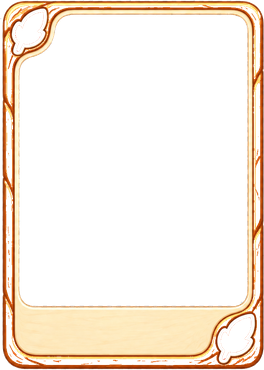
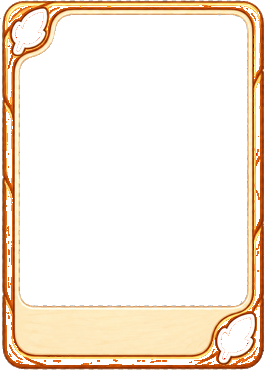
Fix real transparency causes on fan-cards: opacity leak + soft alpha
Two separate bugs were letting whatever sat behind a fan-card show
through, confirmed by rendering the real app end-to-end (seeded
sighting, real /collector-packs response, headless-browser screenshot
against a solid test background):

- .fan-photo.empty had opacity:.3 to dim the placeholder bird emoji.
  That was harmless on the old card, which had a solid opaque
  background, but card-frame-v1.webp has a genuinely transparent photo
  window, so opacity on the whole element let ~70% of whatever was
  behind the card bleed through on every unfound card - the dominant
  case in a fresh collection. Moved the dimming onto a new
  .fan-photo-emoji span around just the emoji glyph instead, so the
  container's own background stays fully opaque.

- The three webp assets (frame + two leaf masks) had large numbers of
  pixels with partial alpha (roughly 200-230 out of 255) in what was
  meant to be solid, opaque artwork - a leftover of extracting alpha
  from a checkerboarded mockup. Snapped every pixel's alpha to fully
  binary (0 or 255); the underlying colour data was already correct,
  so this only removes the unintended semi-transparency.

Claude-Session: https://claude.ai/code/session_01BftYwBApCySU9gZJ9AtT18

Changed region(s): [[0.0, 0.0, 1.0, 1.0], [0.0909, 0.1189, 0.1515, 0.1486]]

diff --git a/static/index.html b/static/index.html
@@ -823,7 +823,12 @@
     mask-image:url('/static/fan-leaf-br-mask-v1.webp');
   }
   .fan-photo{width:100%;height:82px;object-fit:cover;display:block;border-radius:3px;background:var(--parch-dk);}
-  .fan-photo.empty{display:flex;align-items:center;justify-content:center;font-size:22px;opacity:.3;background:var(--parch-dk);border-radius:3px;}
+  .fan-photo.empty{display:flex;align-items:center;justify-content:center;font-size:22px;background:var(--parch-dk);border-radius:3px;}
+  /* opacity lives on the emoji itself, not .fan-photo.empty - that div's own
+     background must stay fully opaque now that the card behind it
+     (card-frame-v1.webp) has a genuinely transparent photo window, unlike
+     the old solid-colour card it used to sit on. */
+  .fan-photo-emoji{opacity:.3;}
   .fan-name{font-family:'Outfit';font-weight:700;font-size:8.5px;color:var(--dusk);text-align:center;padding:2px 2px 0;line-height:1.1;height:18px;overflow:hidden;}
   .fan-pips{display:flex;gap:3px;justify-content:center;padding:2px 0;}
   .fan-pip{width:9px;height:9px;border-radius:50%;border:1.5px solid var(--tier-color);opacity:.3;}
@@ -4054,7 +4059,7 @@ function renderSelectedPack() {
       : '';
     const face = b.photo_url
       ? `<img class="fan-photo" src="${b.photo_url}" alt="">`
-      : `<div class="fan-photo empty">${b.found ? '' : '🐦'}</div>`;
+      : `<div class="fan-photo empty">${b.found ? '' : '<span class="fan-photo-emoji">🐦</span>'}</div>`;
     // An away bird is marked as such, so an empty slot reads as "not this
     // month" rather than something the child has failed to find.
     const away = !b.found && b.season_state === 'away';
